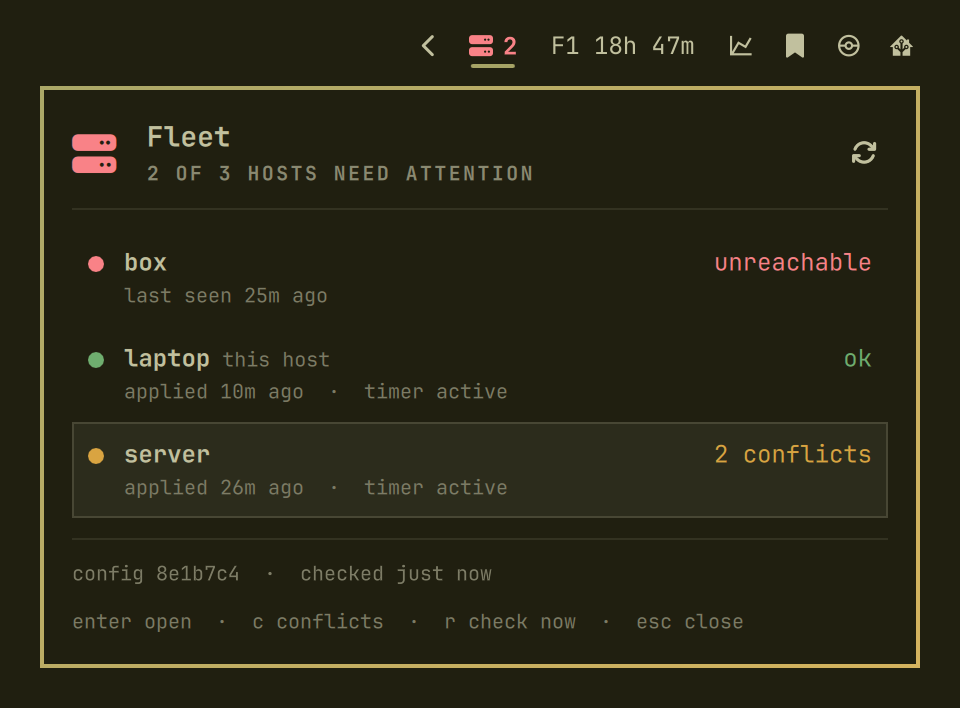
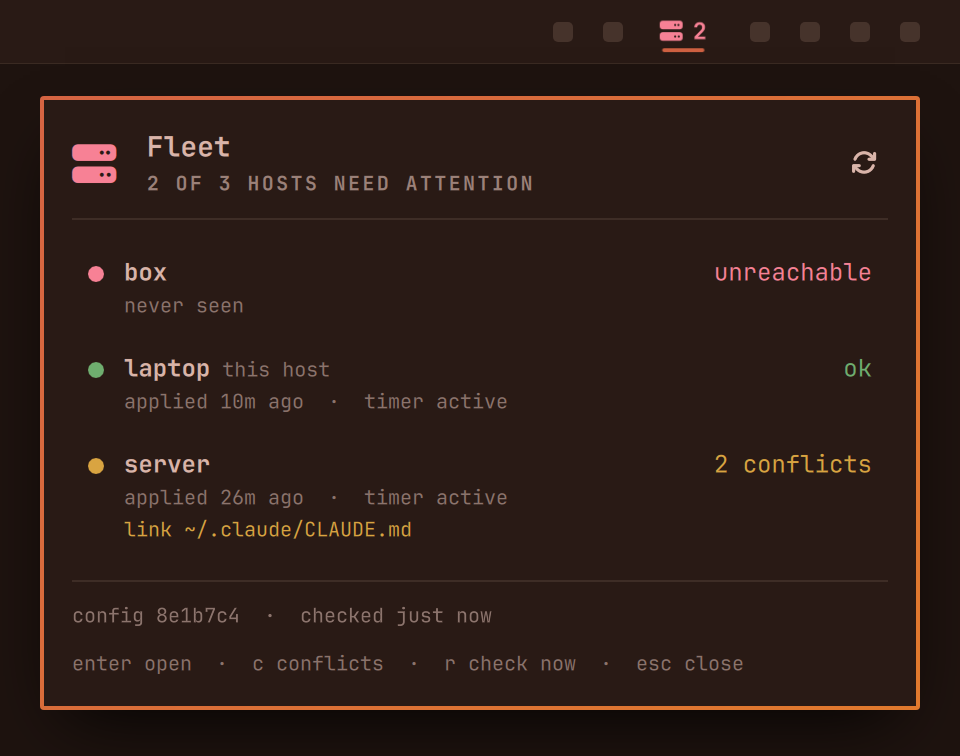
Show the Omarchy widget naming a conflict in the README and on the landing page (#26)
* Show the Omarchy widget naming a conflict in the README and on the landing page

* Link Omarchy to omarchy.org

---------

diff --git a/site/index.html b/site/index.html
@@ -219,7 +219,7 @@
         <p>An Omarchy bar widget shows the health of every host in one icon, so you notice a conflict or an unreachable machine without opening a terminal.</p>
       </div>
       <div class="widget">
-        <img src="omarchy-widget.png" width="960" height="708" loading="lazy" alt="The Fleet widget in the Omarchy menu bar. Its panel lists three hosts: box is unreachable, laptop is ok, and server has 2 conflicts. The bar icon shows the count, 2.">
+        <img src="omarchy-widget.png" width="960" height="756" loading="lazy" alt="The Fleet widget in the Omarchy menu bar. Its panel lists three hosts: box is unreachable, laptop is ok, and server has 2 conflicts, the first a link at ~/.claude/CLAUDE.md. The bar icon shows the count, 2.">
         <div class="widget-text">
           <ul>
             <li><b>One icon</b> that is green when every host is ok, amber for a conflict or a stopped timer, red for a host that cannot be reached, with a count of the hosts that are not green.</li>

diff --git a/README.md b/README.md
@@ -98,10 +98,10 @@ To review a source every time without typing `--review`, put `review: true` on i
 
 ## In the Omarchy menu bar
 
-On [Omarchy](https://omarchy.dev), a bar widget shows the health of every host as one icon, so you notice a conflict or an unreachable machine without opening a terminal. Its panel has a row for each host, naming its first conflict, and opens the bridge on the one you pick. It only runs `fleet status --all --json`, which reads. The screenshot shows made-up hosts.
+On [Omarchy](https://omarchy.org/), a bar widget shows the health of every host as one icon, so you notice a conflict or an unreachable machine without opening a terminal. Its panel has a row for each host, naming its first conflict, and opens the bridge on the one you pick. It only runs `fleet status --all --json`, which reads. The screenshot shows made-up hosts.
 
 <p align="center">
-  <img alt="The Fleet widget in the Omarchy menu bar, with its panel open: box is unreachable, laptop is ok, server has 2 conflicts" src="assets/omarchy-widget.png" width="480">
+  <img alt="The Fleet widget in the Omarchy menu bar, with its panel open: box is unreachable, laptop is ok, server has 2 conflicts and names the first, a link at ~/.claude/CLAUDE.md" src="assets/omarchy-widget.png" width="480">
 </p>
 
 The widget is a separate project: [fleet-omarchy](https://github.com/RolfKoenders/fleet-omarchy), with its install steps and settings.

diff --git a/CHANGELOG.md b/CHANGELOG.md
@@ -11,6 +11,7 @@ What changed in fleet, newest first. Each version lists what you can do now, wha
 
 ### Changed
 
+- The README and the landing page show a new screenshot of the Omarchy widget, with a host's row naming its first conflict.
 - `fleet new` writes `track: releases`, so a new config takes finished versions and not every commit on `main`. To keep following a branch, change `track` in `fleet.yaml`.
 - The landing page's title is now "fleet · One config. Every machine.", the same line as its heading, in the browser tab and in link previews.
 
